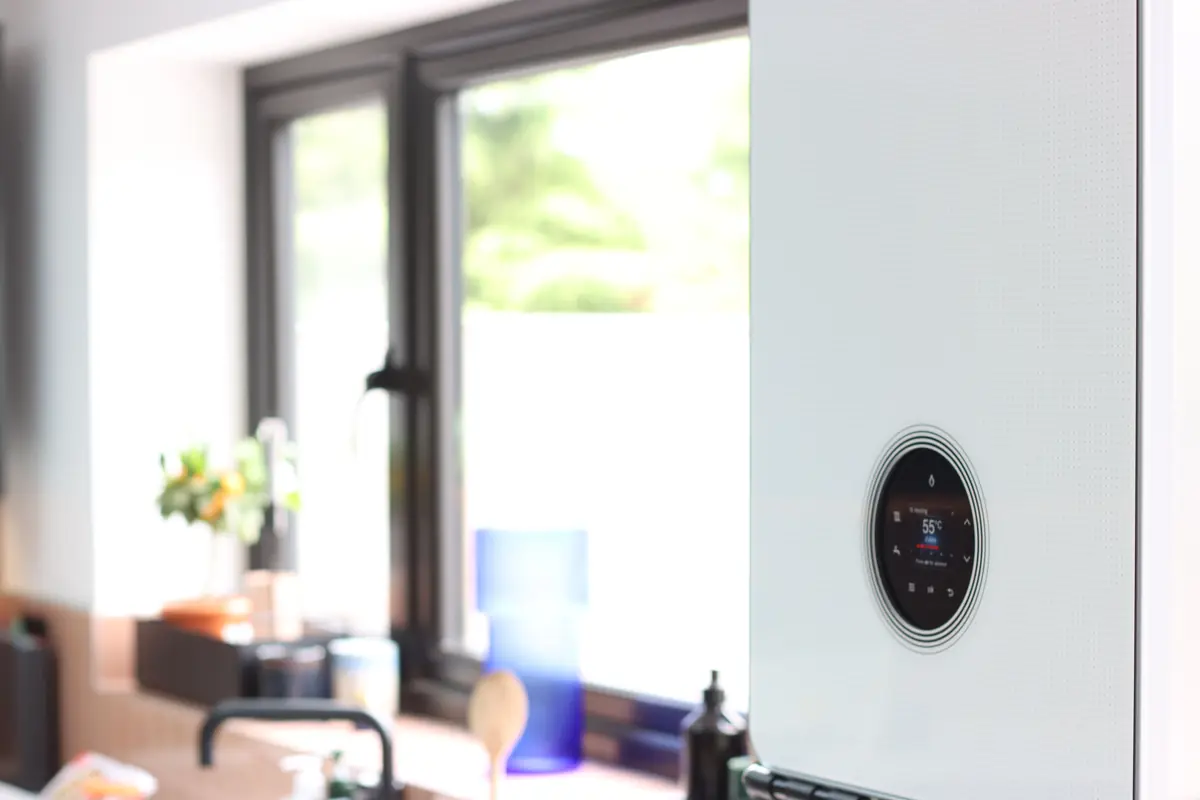
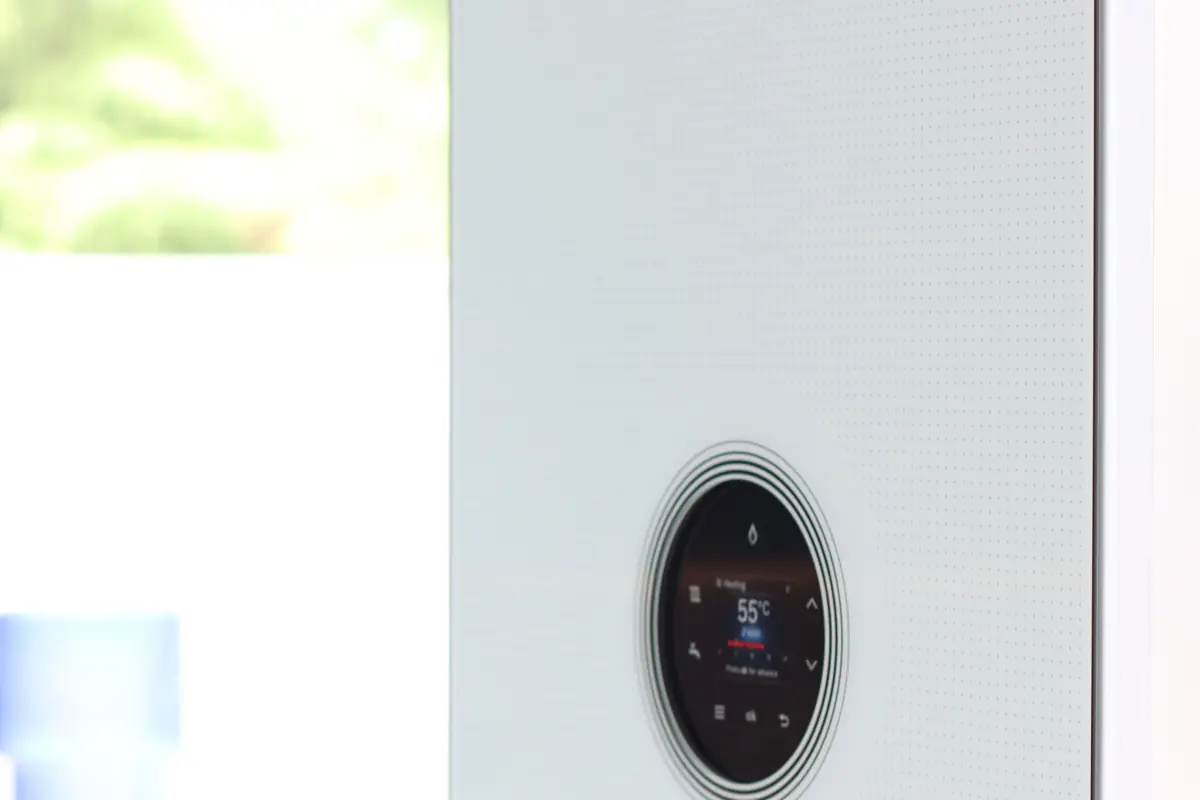
Fix home page card images: consistent height and a focal crop for the boiler
The card image kept its HTML height attribute, so each one rendered as a tall
portrait and was cropped to its centre. That cut the boiler out of the boiler
versus heat pump card. Cards now use a fixed image band, and images whose subject
sits off to one side can declare a focal crop before resizing.

diff --git a/css/style.css b/css/style.css
@@ -770,4 +770,5 @@ input[type="number"]::-webkit-inner-spin-button { opacity: 1; }
 .guide-item .gi-thumb{width:56px;height:56px;border-radius:10px;overflow:hidden;flex-shrink:0;background:var(--color-surface-alt)}
 .guide-item .gi-thumb img{width:100%;height:100%;object-fit:cover;display:block}
 .tool-card{overflow:hidden}
-.tool-card .tc-img{width:calc(100% + 64px);max-width:none;margin:-32px -32px 20px;aspect-ratio:16/9;object-fit:cover;display:block;background:var(--color-surface-alt)}
+.tool-card .tc-img{width:calc(100% + 64px);max-width:none;height:190px;margin:-32px -32px 20px;object-fit:cover;object-position:var(--tc-focus,50% 50%);display:block;background:var(--color-surface-alt)}
+@media (max-width:768px){.tool-card .tc-img{height:170px}}

diff --git a/docs/superpowers/tools/photos_place.py b/docs/superpowers/tools/photos_place.py
@@ -17,6 +17,12 @@ def crop_resize(im, w, h):
 
 HUB = open('guides/index.html', encoding='utf-8').read()
 
+# Some originals put the subject off to one side, so a centre crop loses it.
+# Fractions of the original frame (left, top, right, bottom) to keep before resizing.
+PRECROP = {
+    'boiler-vs-heat-pump': (0.40, 0.0, 1.0, 1.0),
+}
+
 def fetch(c, slug):
     """Always resolve the image from its source URL, keyed by that URL, so the file
     on disk can never drift from the credit metadata (agents reuse candidate filenames)."""
@@ -32,6 +38,9 @@ def fetch(c, slug):
 
 def process(slug, path, thumb=True):
     im = Image.open(path); im = ImageOps.exif_transpose(im).convert('RGB')
+    if slug in PRECROP:
+        l, t, r, bo = PRECROP[slug]; W, H = im.size
+        im = im.crop((int(W * l), int(H * t), int(W * r), int(H * bo)))
     out = {}
     variants = [('1200', (1200, 800), 'webp'), ('960', (960, 640), 'webp'), ('640', (640, 427), 'webp'), ('og', (1200, 800), 'jpg')]
     if thumb: variants.insert(3, ('240', (240, 240), 'webp'))
